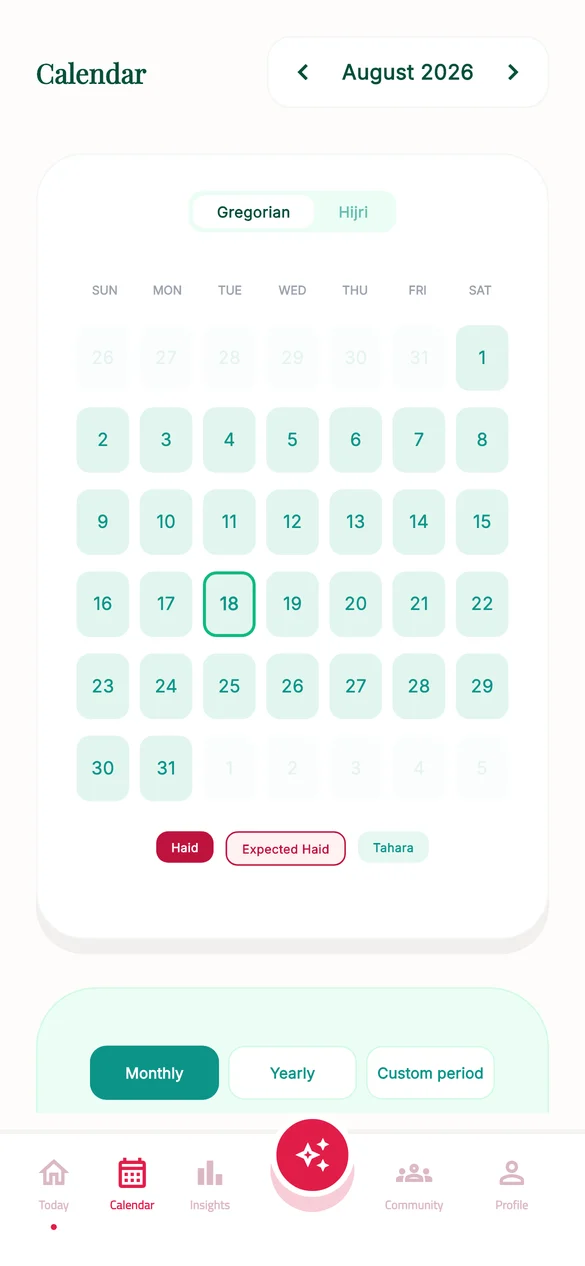
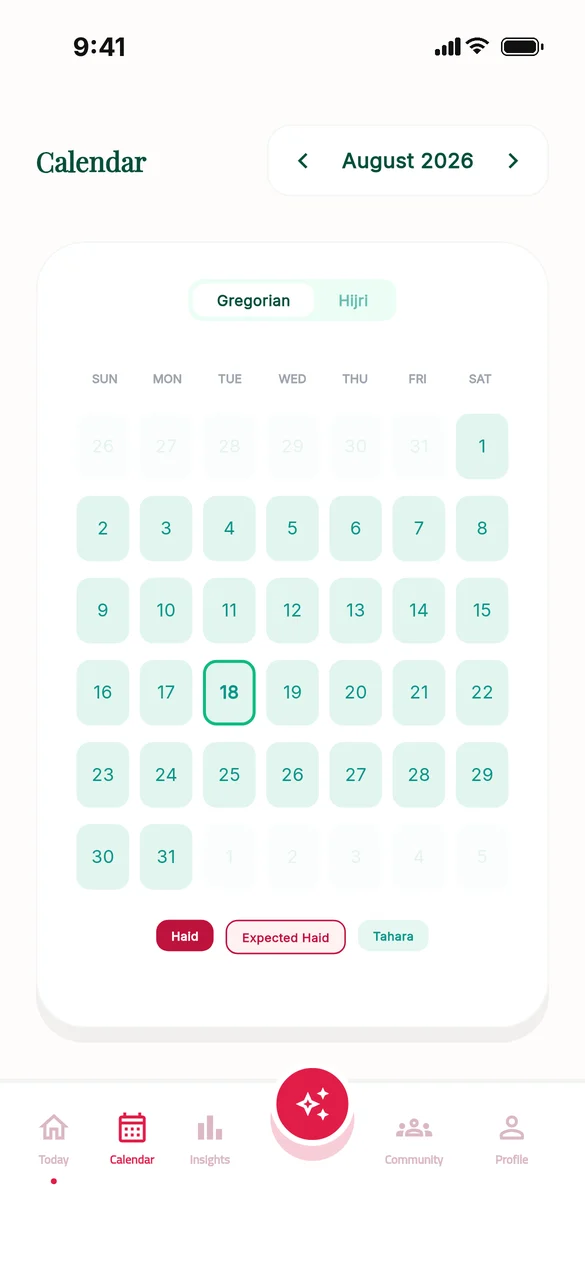
Recapture app screens with iPhone safe areas and a status bar
The goldens were rendered without safe-area insets, so screen titles sat
under the Dynamic Island. All screens are now captured from the app's
widget tests with iPhone top and bottom insets and a 9:41 status bar,
and the mood card hotspot follows the new layout.

Claude-Session: https://claude.ai/code/session_019givjRXx4KqkJ5ZCKMm5SY

diff --git a/src/i18n.ts b/src/i18n.ts
@@ -160,7 +160,7 @@ export const screens: Record<string, { ar: string; en: string }> = {
   profile: { ar: 'screens/profile_ar.webp', en: 'screens/profile_en.webp' },
   log: { ar: 'screens/cycle_log_sheet_ar.webp', en: 'screens/cycle_log_sheet_en.webp' },
   mood: { ar: 'screens/mood_ar.webp', en: 'screens/mood_en.webp' },
-  prayer: { ar: 'screens/today_lower_ar.webp', en: 'screens/today_lower_ar.webp' },
+  prayer: { ar: 'screens/today_lower_ar.webp', en: 'screens/today_lower_en.webp' },
 };
 
 export function applyLang(lang: Lang) {

diff --git a/src/main.ts b/src/main.ts
@@ -5,7 +5,7 @@ import { createShowcase } from './scene';
 let lang: Lang = initialLang();
 
 /** Where the mood card sits on the Today screenshot, as fractions of its height. */
-const MOOD_CARD = { top: 0.6, bottom: 0.88 };
+const MOOD_CARD = { top: 0.66, bottom: 0.86 };
 
 const canvas = document.querySelector<HTMLCanvasElement>('#hero-canvas')!;
 const showcase = createShowcase(canvas);

diff --git a/src/styles.css b/src/styles.css
@@ -523,7 +523,7 @@ h2 {
 /* Tappable mood card on the Today phone */
 .mood-phone .mood-hotspot {
   position: absolute;
-  inset: 60% 5% 12%;
+  inset: 66% 5% 14%;
   border-radius: 24px;
   cursor: pointer;
   box-shadow: 0 0 0 2px rgba(13, 148, 136, 0.55);
